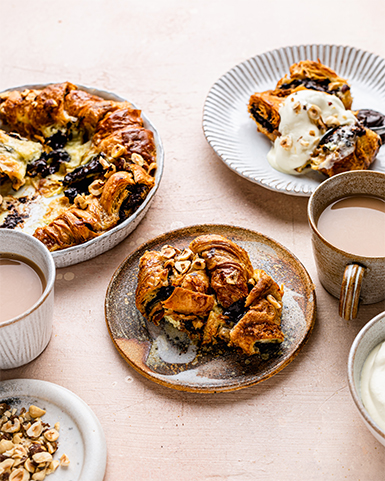
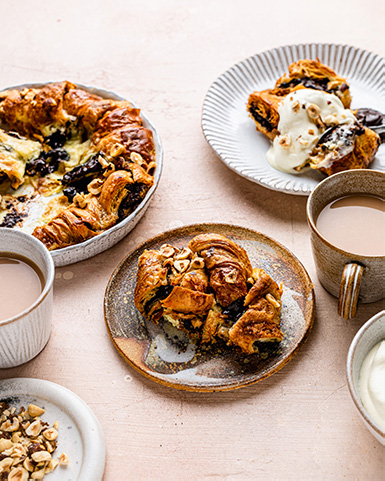
Lowering file size for  performance

diff --git a/photography.html b/photography.html
@@ -45,7 +45,7 @@
         <div class="div"> <img class="img"src="./images/Food Photography28.jpg" ></div>
         <div class="div"> <img class="img"src="./images/Food Photography32.jpg" ></div>
         <div class="div"> <img class="img"src="./images/Food Photography20.jpg" ></div>
-        <div class="div"> <img class="img"src="./images/Oats4.png" ></div>
+        <div class="div"> <img class="img"src="./images/Oats4.jpg" ></div>
 
 
     </div>
